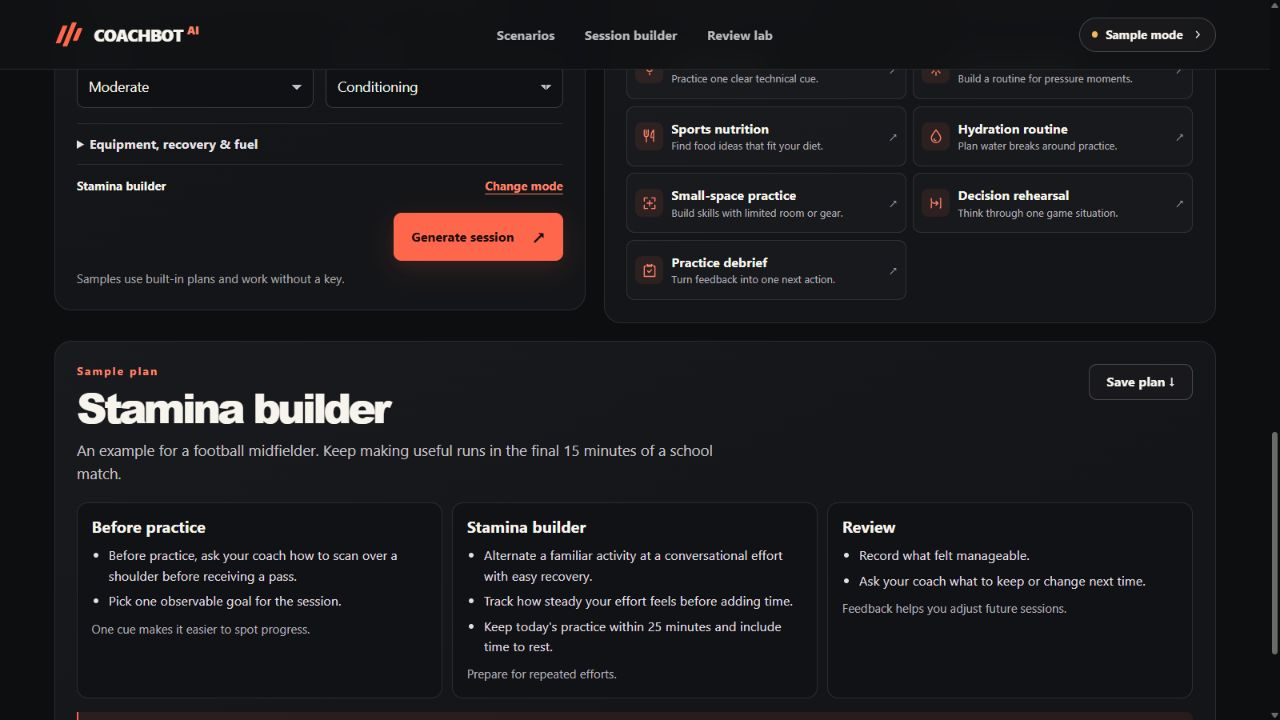
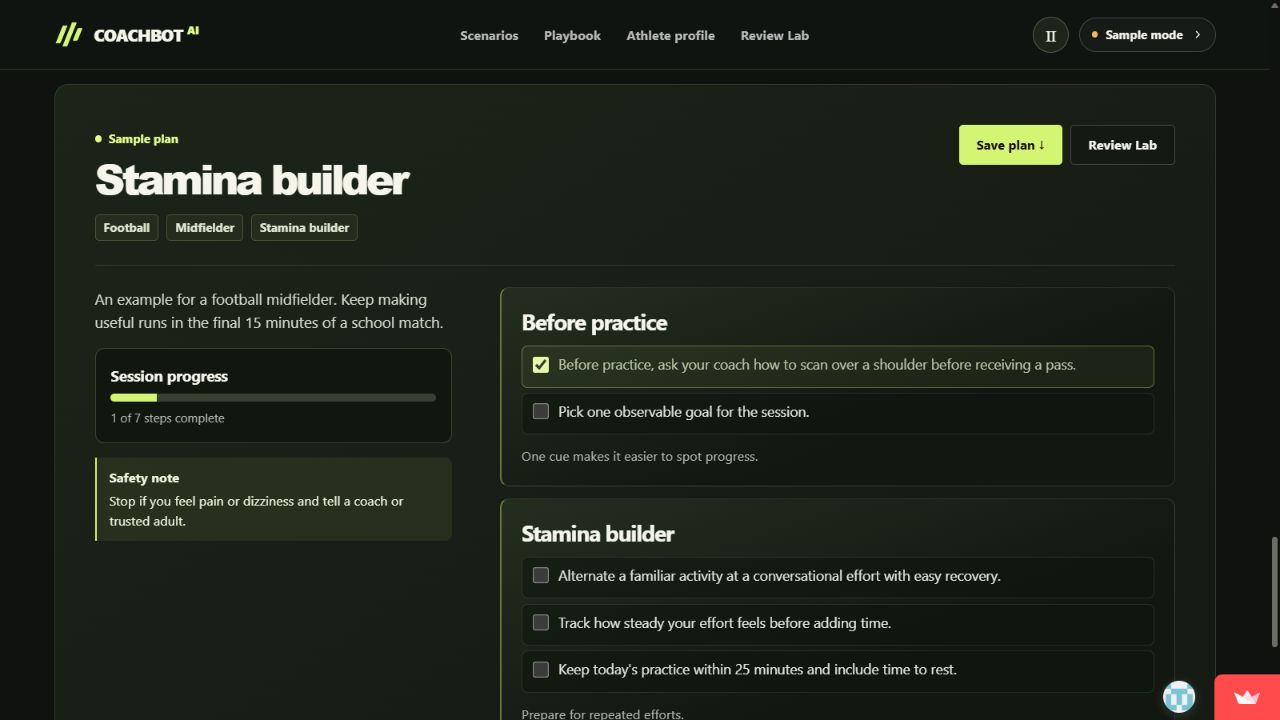
Redesign CoachBot with motion-led sports previews and overlays

diff --git a/web/studio.css b/web/studio.css
@@ -30,15 +30,17 @@ nav a:hover,nav button:hover{color:var(--text)}
 .connection svg{width:13px;height:13px;fill:none;stroke:currentColor;stroke-width:2}
 
 .header-actions{justify-self:end;display:flex;align-items:center;gap:10px}
+.menu-toggle{display:grid;place-items:center;width:38px;height:38px;border:1px solid #d4eed540;border-radius:50%;background:#1e2419;color:var(--text);transition:background .22s}
+.menu-toggle:hover{background:#414d33}
+.menu-toggle svg{width:18px;height:18px;fill:none;stroke:currentColor;stroke-width:1.75;stroke-linecap:round}
 .hero{--reel-progress:0;position:relative;isolation:isolate;overflow:clip;background:radial-gradient(ellipse at 81% 15%,#465730 0%,transparent 61%),#10140e}
 .hero::before{content:"";position:absolute;inset:0;background:radial-gradient(circle,#d4f5742b .7px,transparent 1px) 0 0/17px 17px;mask-image:linear-gradient(100deg,#000,transparent 38%);pointer-events:none}
-.hero-inner{position:relative;display:grid;align-items:center;min-height:clamp(630px,calc(100svh - var(--header-height)),940px);padding-block:88px 110px}
+.hero-inner{position:relative;display:grid;grid-template-columns:minmax(0,1fr) minmax(0,1.22fr);align-items:center;gap:clamp(20px,3.25vw,48px);min-height:clamp(590px,calc(100svh - var(--header-height)),900px);padding-block:54px 88px}
 .hero-copy{position:relative;z-index:2;max-width:750px}
 .hero-copy h1 span{display:block}
-.hero h1{font:950 clamp(62px,9.4vw,150px)/.83 var(--display);letter-spacing:-.093em;color:#f6f6e9;text-transform:uppercase;text-shadow:0 2px 36px #0b100c85;animation:title-in .95s var(--ease) both}
-.hero h1 em{display:inline-block;color:var(--hot);font-style:normal;animation:title-in 1.08s var(--ease) both}
+.hero h1{font:950 clamp(45px,6.1vw,105px)/.88 var(--display);letter-spacing:-.085em;color:#f6f6e9;text-transform:uppercase;text-shadow:0 2px 36px #0b100c85;animation:title-in .95s var(--ease) both}
+.hero h1 em{display:inline-block;color:var(--scene-color);font-style:normal;transition:color .45s var(--ease);animation:title-in 1.08s var(--ease) both}
 @keyframes title-in{from{clip-path:inset(100% -10% 0 -10%);transform:translateY(27px)}to{clip-path:inset(-12% -10% -12% -10%);transform:none}}
-@keyframes enter{from{transform:translateY(16px);opacity:0}to{transform:none;opacity:1}}
 .eyebrow{display:flex;align-items:center;gap:9px;font:700 11px/1.3 'Segoe UI',Arial,sans-serif;letter-spacing:.15em}
 .hero-eyebrow{color:#e0e9cd;margin-bottom:24px}
 .hero-eyebrow span{width:23px;height:1px;background:var(--hot)}
@@ -47,20 +49,25 @@ nav a:hover,nav button:hover{color:var(--text)}
 .hero-scroll{position:absolute;bottom:26px;left:0;color:#c1caaf;font-size:12px;display:inline-flex;align-items:center;gap:19px;z-index:2}
 .hero-scroll span{width:26px;height:26px;display:grid;place-items:center;border:1px solid #d5e8c44d;border-radius:50%;transition:transform .25s var(--ease)}
 .hero-scroll:hover span{transform:translateY(4px)}
-.hero-reel{position:absolute;inset:0;pointer-events:none;perspective:1200px}
-.hero-reel::after{content:"";position:absolute;inset:0;background:linear-gradient(90deg,#10140ee6 3%,#10140e7d 37%,transparent 66%);pointer-events:none}
-.hero-shot{position:absolute;overflow:clip;border:1px solid #d6e9c972;background:#252e21 center/cover;border-radius:9px;box-shadow:0 22px 64px #040a06bb;transform-origin:center;animation:reel-in 1.05s var(--ease) both}
-.hero-shot::after{content:"";position:absolute;inset:0;pointer-events:none;background:linear-gradient(118deg,#111e1347 8%,transparent 59%),linear-gradient(0deg,#11180e55,transparent 31%);box-shadow:inset 0 0 0 5px #ffffff07}
-.hero-shot-track{inset:12% -2% 13% 38%;transform:translate3d(calc(70px * var(--reel-progress)),calc(-45px * var(--reel-progress)),0) rotate(-4deg) scale(calc(1 + .12 * var(--reel-progress)))}
-.hero-shot-court{inset:62% 1% 4% 70%;transform:translate3d(calc(46px * var(--reel-progress)),calc(80px * var(--reel-progress)),0) rotate(9deg);animation-delay:.09s}
-.hero-shot-warmup{inset:6% 11% 65% 69%;transform:translate3d(calc(-15px * var(--reel-progress)),calc(-90px * var(--reel-progress)),0) rotate(8deg);animation-delay:.14s}
-.hero-shot-track .film-media{object-position:48% center;filter:brightness(.72) saturate(.68) contrast(1.12)}
-.hero-shot-court .film-media{object-position:54% center;filter:brightness(.82) saturate(.72) contrast(1.08)}
-.hero-shot-warmup .film-media{object-position:50% center;filter:brightness(.84) saturate(.72) contrast(1.08)}
-@keyframes reel-in{from{opacity:0;translate:34px 34px}to{opacity:1;translate:none}}
+.hero-reel{position:relative;min-width:0;isolation:isolate;animation:reel-in .95s var(--ease) both}
+.hero-reel::before{content:"";position:absolute;z-index:-1;inset:8% -2.5% 11% 10%;border:1px solid #e4f7c938;border-radius:18px;background:#151f1150;transform:translateY(calc(22px * var(--reel-progress))) rotate(5deg)}
+.hero-screen{position:relative;isolation:isolate;overflow:clip;aspect-ratio:1.42;background:#252e21;border:1px solid #e0f1d675;border-radius:15px 15px 4px 4px;box-shadow:0 24px 76px #071006ad}
+.hero-screen::after{content:"";position:absolute;inset:0;pointer-events:none;background:linear-gradient(0deg,#0b160c50,transparent 46%);box-shadow:inset 0 0 0 6px #ffffff08}
+.hero-shot{position:absolute;inset:0;background:#252e21 center/cover;opacity:0;transform:translateY(calc(-36px * var(--reel-progress))) scale(1.085);transition:opacity .6s var(--ease)}
+.hero-shot[data-active=true]{opacity:1}
+.hero-shot .film-media{filter:contrast(1.07) saturate(.88)}
+@keyframes reel-in{from{opacity:.1;clip-path:inset(0 0 10% 8%);translate:23px 20px}to{opacity:1;clip-path:inset(-30% -30% -30% -30%);translate:none}}
+.hero-reel-controls{display:flex;flex-wrap:wrap;justify-content:space-between;align-items:center;gap:3px 12px;margin-top:10px;padding:5px 8px;border:1px solid #d6e9c934;border-radius:7px;background:#111a13d9;backdrop-filter:blur(13px)}
+.hero-films{display:flex;flex-wrap:wrap;min-width:0;gap:3px}
+.hero-films button{min-height:36px;padding:0 10px;border:1px solid transparent;border-radius:5px;background:none;color:#d1dfca;font-size:12px;font-weight:700;transition:background .24s,color .24s}
+.hero-films button:hover{background:#eaf5dc19;color:#fff}
+.hero-films button[aria-pressed=true]{background:var(--scene-color);color:#182116}
+.film-trigger{display:inline-flex;align-items:center;justify-content:center;gap:6px;min-height:36px;padding:6px 10px;border:1px solid #eef8e352;border-radius:5px;background:#101810c9;color:var(--text);font-size:12px;font-weight:760;white-space:nowrap;transition:background .2s,border-color .2s}
+.film-trigger span{color:var(--scene-color);font-size:15px;line-height:1}
+.film-trigger:hover{background:#34412f;border-color:#eef8e392}
 .film-media{position:absolute;inset:0;width:100%;height:100%;object-fit:cover;opacity:0;transition:opacity .48s var(--ease);pointer-events:none}
 [data-playing=true]>.film-media{opacity:1}
-.studio[data-motion=off] .hero h1,.studio[data-motion=off] .hero h1 em,.studio[data-motion=off] .hero-shot{animation:none}
+.studio[data-motion=off] :is(.hero h1,.hero h1 em,.hero-reel){animation:none;transition:none}
 .button{border-radius:8px;min-height:48px;display:inline-flex;align-items:center;justify-content:center;gap:18px;padding:0 17px;border:1px solid transparent;font-size:13px;font-weight:750;line-height:1.2;transition:background .2s,border-color .2s,transform .24s var(--ease),box-shadow .2s;white-space:nowrap}
 .button:hover{transform:translateY(-2px)}
 .button:active{transform:translateY(0)}
@@ -93,8 +100,8 @@ nav a:hover,nav button:hover{color:var(--text)}
 .case-preview{grid-area:preview;position:relative;display:flex;align-items:end;min-height:clamp(354px,37vw,490px);isolation:isolate;background:#1b2318;overflow:clip;border-radius:11px;box-shadow:0 16px 40px #23371b33;color:#f6f8ef;color-scheme:dark}
 .case-film,.case-picture{position:absolute;inset:0;pointer-events:none}
 .case-film{z-index:-1}
-.case-picture{opacity:0;background:#242b22 center/cover;transition:opacity .52s var(--ease)}
-.case-picture[data-active=true]{opacity:1}
+.case-picture{opacity:0;background:#242b22 center/cover;transform:scale(1.05);transition:opacity .6s var(--ease),transform .8s var(--ease)}
+.case-picture[data-active=true]{opacity:1;transform:none}
 .case-film::after{content:"";position:absolute;inset:0;background:linear-gradient(0deg,#090f0af5 0%,#0d170dd4 29%,#0e110a18 73%);pointer-events:none}
 .case-detail{display:flex;flex-wrap:wrap;align-items:end;justify-content:space-between;gap:12px;width:100%;padding:clamp(16px,2.75vw,35px)}
 .case-text{min-width:0}
@@ -103,6 +110,8 @@ nav a:hover,nav button:hover{color:var(--text)}
 #case-goal{max-width:44ch;margin-top:8px;color:#e1e8d9;font-size:14px;line-height:1.45}
 .case-detail .button.primary{color:#151812;background:var(--scene-color);border-color:var(--scene-color)}
 .case-detail .button.primary:hover{background:#f4fae8;border-color:#f4fae8}
+.case-actions,.stage-tools{display:flex;align-items:center;flex-wrap:wrap;gap:7px}
+.case-actions .film-trigger{min-height:44px}
 .scenario-grid{grid-area:choices;display:grid;gap:8px}
 .scenario{display:flex;align-items:center;justify-content:space-between;gap:10px;width:100%;min-height:73px;text-align:left;padding:13px clamp(10px,1.5vw,18px);border:1px solid #31422237;border-radius:8px;background:#f4f5ec7a;color:#192116;transition:background .26s,border-color .26s,box-shadow .26s}
 .scenario:hover{border-color:#536840b0;background:#f4f7ea}
@@ -203,13 +212,26 @@ textarea{min-height:58px;resize:vertical}
 .footer>span:first-child{color:var(--text);font-weight:800;white-space:nowrap}
 .footer a{white-space:nowrap}
 .footer a:hover{color:var(--hot-bright)}
-.modal{width:min(100% - 28px,525px);max-height:calc(100dvh - 35px);overflow:auto;border:1px solid #47484d;border-radius:17px;background:#18191d;color:var(--text);padding:23px;box-shadow:0 22px 115px #000c}
-.modal::backdrop{background:#050507b0;backdrop-filter:blur(6px)}
-.modal[open]{animation:enter .25s var(--ease) both}
+.modal{width:min(100% - 28px,525px);max-height:calc(100dvh - 35px);overflow:auto;overscroll-behavior:contain;border:1px solid #c3d0ad49;border-radius:16px;background:#171e16;color:var(--text);padding:23px;box-shadow:0 22px 115px #000c;opacity:0;transform:translateY(18px) scale(.985);transition:opacity .28s var(--ease),transform .38s var(--ease),display .38s allow-discrete,overlay .38s allow-discrete}
+.modal::backdrop{background:#060a07b8;backdrop-filter:blur(9px);opacity:0;transition:opacity .35s,display .38s allow-discrete,overlay .38s allow-discrete}
+.modal[open]{opacity:1;transform:none}
+.modal[open]::backdrop{opacity:1}
+@starting-style{
+  .modal[open]{opacity:0;transform:translateY(24px) scale(.975)}
+  .modal[open]::backdrop{opacity:0}
+}
 .modal-head{display:flex;justify-content:space-between;align-items:start;gap:12px;margin-bottom:14px}
 .modal>p{color:#c9c6ce;font-size:14px;margin-bottom:16px}
 .close{border-radius:50%;width:34px;height:34px;flex:none;background:#ffffff09;border:1px solid #ffffff24;font-size:21px;line-height:1}
 .close:hover{background:#ffffff19}
+.menu-panel{width:min(100% - 28px,454px);margin:clamp(14px,5vh,55px) clamp(14px,5vw,70px) auto auto;background:radial-gradient(ellipse at top right,#c1e87526,transparent 73%),#141b13;padding:clamp(17px,3.1vw,33px)}
+.menu-panel nav{display:grid;gap:2px;white-space:normal}
+.menu-panel nav :is(a,button){display:flex;justify-content:space-between;align-items:center;gap:12px;text-align:left;border:0;border-bottom:1px solid #d7eac336;background:none;color:var(--text);min-height:56px;padding:7px 0;font-weight:760;font-size:clamp(16px,2.2vw,25px);letter-spacing:-.038em}
+.menu-panel nav :is(a,button):hover{color:var(--hot-bright)}
+.menu-panel nav span{color:var(--hot);font-size:17px}
+.film-dialog{width:min(100% - 28px,960px);background:#111710;padding:clamp(13px,2.7vw,28px)}
+.film-dialog video{display:block;width:100%;max-height:calc(100dvh - 185px);border-radius:8px;background:#0b110b;object-fit:contain}
+.film-dialog>p{margin:12px 0 0}
 #key-form label+label{margin-top:11px}
 #key-form label span{color:#c5bdc9;font-weight:550;font-size:11px;margin-left:5px}
 .modal-actions{display:flex;justify-content:space-between;gap:8px;margin-top:14px}
@@ -240,8 +262,8 @@ textarea{min-height:58px;resize:vertical}
 .mode-stage{position:relative;isolation:isolate;display:flex;flex-direction:column;min-height:438px;overflow:hidden;overflow:clip;padding:clamp(17px,2.25vw,34px);background:#1a2518;border:1px solid #e1eed14c;border-radius:11px}
 .mode-visual,.mode-picture,.mode-scrim{position:absolute;inset:0;pointer-events:none}
 .mode-visual{z-index:-2}
-.mode-picture{opacity:0;background:#21291e center/cover;transition:opacity .56s var(--ease)}
-.mode-picture[data-active=true]{opacity:1}
+.mode-picture{opacity:0;background:#21291e center/cover;transform:scale(1.05);transition:opacity .6s var(--ease),transform .8s var(--ease)}
+.mode-picture[data-active=true]{opacity:1;transform:none}
 .mode-scrim{z-index:-1;background:linear-gradient(0deg,#0b110af2 2%,#121b11ab 30%,#121b1110 82%),linear-gradient(90deg,#0d180d91,transparent 80%)}
 .mode-stage .film-media{filter:brightness(.8) saturate(.8)}
 .stage-toolbar,.stage-footer{display:flex;justify-content:space-between;align-items:center;gap:10px}
@@ -268,9 +290,10 @@ textarea{min-height:58px;resize:vertical}
 .mode strong{font-size:13px;font-weight:750;line-height:1.2}
 .mode-arrow{color:#b0bba8;font-size:13px}
 .mode[aria-pressed=true] :is(.mode-arrow,.mode-icon){color:var(--scene-color)}
-.studio[data-motion=on] :is(.case-preview,.mode-stage).in-view{animation:chapter-in .7s var(--ease) backwards}
-@keyframes chapter-in{from{transform:translateY(15px);opacity:.65;clip-path:inset(0 0 7% 0)}to{transform:none;opacity:1;clip-path:inset(0)}}
-.studio[data-motion=off] :is(.case-picture,.mode-picture,.film-media){transition:none}
+.studio[data-motion=on] :is(.case-shell .section-heading,.case-preview,.scenario-grid,.playbook-header,.mode-stage,.mode-index,.profile-intro,.profile-group,.output).in-view{animation:chapter-in .72s var(--ease) backwards}
+.studio[data-motion=on] :is(.scenario-grid,.mode-index,.profile-group).in-view{animation-delay:.09s}
+@keyframes chapter-in{from{translate:0 21px;opacity:.28;clip-path:inset(0 0 11% 0)}to{translate:none;opacity:1;clip-path:inset(0)}}
+.studio[data-motion=off] :is(.hero-shot,.case-picture,.mode-picture,.film-media,.modal),.studio[data-motion=off] .modal::backdrop{transition:none}
 .studio[data-motion=off] .output-source::before{animation:none}
 .profile :is(input:not([type=checkbox]),select,textarea){background-color:#121710;border-color:#4a5442;border-radius:5px}
 .profile :is(input:not([type=checkbox]),select,textarea):hover{border-color:#6e7a61}
@@ -284,19 +307,14 @@ textarea{min-height:58px;resize:vertical}
 @media(max-width:1100px){
   .shell{width:calc(100% - 64px)}
   nav{gap:16px}
-  .hero-shot-track{inset:15% -2% 18% 37%}
-  .hero-shot-court{inset:61% 1% 10% 71%}
-  .hero-shot-warmup{inset:8% 13% 66% 66%}
 }
 @media(max-width:760px){
   .shell{width:calc(100% - 40px)}
-  .hero-inner{min-height:680px;align-items:end;padding-block:260px 83px}
-  .hero h1{font-size:clamp(57px,12vw,91px)}
-  .hero-shot-track{inset:5% -2% 44% 16%;transform:translateY(calc(-24px * var(--reel-progress))) rotate(-5deg)}
-  .hero-shot-court{inset:32% -1% 45% 56%;transform:translateY(calc(20px * var(--reel-progress))) rotate(8deg)}
-  .hero-shot-warmup{inset:9% 63% 69% -1%;transform:rotate(9deg)}
+  .hero-inner{min-height:calc(100svh - var(--header-height));grid-template-columns:minmax(0,1fr);align-content:center;gap:25px;padding-block:30px 77px}
+  .hero h1{font-size:clamp(43px,11.4vw,82px)}
   .hero-copy{max-width:100%}
-  .hero-reel::after{background:linear-gradient(0deg,#10140e 7%,#10140ea6 37%,transparent 73%)}
+  .hero-reel{grid-row:1}
+  .hero-screen{aspect-ratio:1.7}
   .hero p{margin-top:16px}
   .hero-eyebrow{font-size:10px;margin-bottom:14px}
   .case-layout,.playbook-layout,.workbench{grid-template-columns:minmax(0,1fr)}
@@ -312,23 +330,17 @@ textarea{min-height:58px;resize:vertical}
   .session-workspace{grid-template-columns:minmax(0,1fr)}
   .session-overview{position:static}
   .section-heading{flex-direction:column;align-items:start;gap:10px}
-  .studio{--header-height:98px}
-  .topbar-inner{grid-template-columns:1fr auto;grid-template-rows:58px 39px;gap:0 6px}
-  .topbar nav{grid-column:1/-1;grid-row:2;justify-content:space-between;gap:8px;min-width:0;border-top:1px solid var(--line);font-size:12px}
-  .topbar nav :is(a,button){display:flex;align-items:center;min-height:37px}
-  .header-actions{grid-column:2;grid-row:1}
+  .studio{--header-height:62px}
+  .topbar-inner{grid-template-columns:minmax(0,1fr) auto;gap:6px}
+  .topnav{display:none}
 }
 @media(max-width:575px){
   .shell{width:calc(100% - 32px)}
-  .topbar nav{font-size:11px}
   .brand{font-size:15px}
   .connection{font-size:11px}
   .header-actions{gap:6px}
-  .hero-inner{min-height:calc(100svh - var(--header-height));padding-top:clamp(225px,36svh,290px)}
-  .hero h1{font-size:clamp(43px,12.3vw,71px)}
-  .hero-shot-track{inset:7% -1% 50% 9%}
-  .hero-shot-court{inset:29% 0 54% 59%}
-  .hero-shot-warmup{inset:7% 69% 75% -1%}
+  .hero-reel-controls{gap:5px;padding:5px}
+  .hero-films button,.hero-reel .film-trigger{min-height:38px;padding-inline:7px;font-size:11px}
   .hero-actions{gap:7px;margin-top:18px}
   .button{min-height:44px;gap:8px;padding-inline:10px;font-size:12px}
   .sport-inner{gap:8px;min-height:54px}
@@ -353,7 +365,8 @@ textarea{min-height:58px;resize:vertical}
 }
 @media(max-width:360px){
   .fields{grid-template-columns:minmax(0,1fr)}
-  .connection{gap:5px;padding-inline:8px}
+  .connection{display:grid;place-items:center;width:34px;height:34px;padding:0}
+  #connection-label{position:absolute;width:1px;height:1px;clip-path:inset(50%);overflow:hidden;white-space:nowrap}
   .connection svg{display:none}
 }
 @media(prefers-reduced-motion:reduce){

diff --git a/web/studio.html b/web/studio.html
@@ -6,10 +6,11 @@
         <span class="brand-mark" aria-hidden="true"><i></i><i></i><i></i></span>
         <span>COACHBOT<span class="brand-ai">AI</span></span>
       </a>
-      <nav aria-label="Main navigation"><a href="#scenarios">Scenarios</a><a href="#playbook">Playbook</a><a href="#athlete-profile">Athlete profile</a><button type="button" data-open="review">Review Lab</button></nav>
+      <nav class="topnav" aria-label="Main navigation"><a href="#scenarios">Scenarios</a><a href="#playbook">Playbook</a><a href="#athlete-profile">Athlete profile</a></nav>
       <div class="header-actions">
         <button class="motion-toggle" type="button" aria-label="Pause motion" title="Pause motion"><span aria-hidden="true">Ⅱ</span></button>
         <button class="connection" data-open="settings" type="button"><i aria-hidden="true"></i><span id="connection-label">Sample mode</span><svg viewBox="0 0 24 24" aria-hidden="true"><path d="m9 18 6-6-6-6"/></svg></button>
+        <button class="menu-toggle" data-open="studio-menu" type="button" aria-label="Open CoachBot menu" aria-haspopup="dialog"><svg viewBox="0 0 24 24" aria-hidden="true"><path d="M3 8h18M3 16h13"/></svg></button>
       </div>
     </div>
   </header>
@@ -17,11 +18,6 @@
   <main>
     <section class="hero" aria-labelledby="hero-title">
       <div class="shell hero-inner">
-        <div class="hero-reel" aria-hidden="true">
-          <div class="hero-shot hero-shot-track" data-film="training"></div>
-          <div class="hero-shot hero-shot-court" data-film="game-iq"></div>
-          <div class="hero-shot hero-shot-warmup" data-film="recovery"></div>
-        </div>
         <div class="hero-copy">
           <div class="eyebrow hero-eyebrow"><span aria-hidden="true"></span> AI COACHING FOR YOUNG ATHLETES</div>
           <h1 id="hero-title">TRAIN WITH<br><em>PURPOSE.</em></h1>
@@ -29,6 +25,13 @@
           <div class="hero-actions">
             <a href="#builder" class="button primary">Build my session <span aria-hidden="true">↗</span></a>
             <button type="button" class="button ghost" id="load-example"><span class="play" aria-hidden="true">▷</span> Try an example</button>
+          </div>
+        </div>
+        <div class="hero-reel" aria-label="Coaching footage">
+          <div class="hero-screen" id="hero-films" aria-hidden="true"></div>
+          <div class="hero-reel-controls">
+            <div class="hero-films" id="hero-film-picker" role="group" aria-label="Select a featured clip"></div>
+            <button class="film-trigger" id="watch-hero" type="button" aria-haspopup="dialog"><span aria-hidden="true">▷</span> Watch clip</button>
           </div>
         </div>
         <a class="hero-scroll" href="#scenarios">Explore scenarios <span aria-hidden="true">↓</span></a>
@@ -55,7 +58,10 @@
                 <h3 id="case-title"></h3>
                 <p id="case-goal"></p>
               </div>
-              <button type="button" class="button primary" id="use-scenario">Use this scenario <span aria-hidden="true">↗</span></button>
+              <div class="case-actions">
+                <button type="button" class="button primary" id="use-scenario">Use this scenario <span aria-hidden="true">↗</span></button>
+                <button type="button" class="film-trigger" id="watch-scenario" aria-haspopup="dialog"><span aria-hidden="true">▷</span> Watch clip</button>
+              </div>
             </div>
           </article>
         </div>
@@ -74,7 +80,7 @@
             <div class="mode-scrim" aria-hidden="true"></div>
             <div class="stage-toolbar">
               <p class="stage-group" id="stage-group"></p>
-              <p class="stage-position" id="stage-position"></p>
+              <div class="stage-tools"><p class="stage-position" id="stage-position"></p><button type="button" class="film-trigger" id="watch-mode" aria-haspopup="dialog"><span aria-hidden="true">▷</span> Watch clip</button></div>
             </div>
             <div class="stage-copy" aria-live="polite">
               <h3 id="stage-title"></h3>
@@ -152,6 +158,22 @@
   </main>
 
   <footer class="shell footer"><span>COACHBOT AI</span><span>Youth coaching prototype · use fictional profiles</span><a href="#top">Back to top ↑</a></footer>
+
+  <dialog class="modal menu-panel" id="studio-menu" aria-labelledby="menu-title">
+    <div class="modal-head"><h2 id="menu-title">Explore CoachBot</h2><button class="close" type="button" aria-label="Close CoachBot menu">×</button></div>
+    <nav aria-label="CoachBot sections">
+      <a href="#scenarios">Scenarios <span aria-hidden="true">↗</span></a>
+      <a href="#playbook">Coaching Playbook <span aria-hidden="true">↗</span></a>
+      <a href="#athlete-profile">Athlete profile <span aria-hidden="true">↗</span></a>
+      <button type="button" data-open="review">Review Lab <span aria-hidden="true">↗</span></button>
+    </nav>
+  </dialog>
+
+  <dialog class="modal film-dialog" id="film-dialog" aria-labelledby="film-title">
+    <div class="modal-head"><h2 id="film-title"></h2><button class="close" type="button" aria-label="Close video preview">×</button></div>
+    <video controls muted playsinline preload="metadata" aria-labelledby="film-title"></video>
+    <p id="film-description"></p>
+  </dialog>
 
   <dialog class="modal" id="settings" aria-labelledby="settings-title">
     <div class="modal-head"><div><p class="eyebrow section-kicker">GEMINI</p><h2 id="settings-title">Model settings</h2></div><button class="close" type="button" aria-label="Close settings">×</button></div>

diff --git a/README.md b/README.md
@@ -32,13 +32,15 @@ Open the local URL shown in the terminal. The sample workflow runs without crede
 
 | Screen | What to try |
 | --- | --- |
-| [Landing screen](docs/screenshots/home.jpg) | Pause or play the live animated background, then open an example. |
+| [Landing screen](docs/screenshots/home.jpg) | Switch between four sports clips, open a clip in the player, or start with an example. |
 | [Scenario gallery](docs/screenshots/scenarios.jpg) | Preview a midfielder, fast bowler, badminton doubles player, or point guard. Choose **Use this scenario** to load the selected profile. |
 | [Coaching Playbook](docs/screenshots/playbook.jpg) | Browse 13 modes across four animated scenes, then continue to the athlete profile. |
 | [Sample plan](docs/screenshots/plan.jpg) | Generate a plan, check off steps as you go, then download it or open Review Lab. |
 | [Readiness check](docs/screenshots/readiness.jpg) | Run the fast-bowler case and see the local check-in checklist. |
 | [Review Lab](docs/screenshots/review.jpg) | Select two runs, compare the outputs and export run evidence. |
 | [390 px mobile view](docs/screenshots/mobile.jpg) | Use the same profile form and playbook on a narrow screen. |
+
+![A CoachBot session with the progress bar and a completed step](docs/screenshots/plan.jpg)
 
 ![CoachBot Coaching Playbook showing the animated training preview and mode index](docs/screenshots/playbook.jpg)
 
@@ -120,7 +122,7 @@ Browser checks on the public deployment cover the scenario previews, sample gene
 - Youth conditioning benefits from matching training intensity and volume to the athlete and allowing regular recovery. That informed the profile's intensity, equipment, goal and recovery inputs. [IOC consensus on youth athletic development](https://doi.org/10.1136/bjsports-2015-094962)
 - The youth resistance training consensus informed the emphasis on supervision, technique and gradual progression. [International consensus on youth resistance training](https://doi.org/10.1136/bjsports-2013-092952)
 - The return-to-training path sends possible concussion and current symptoms to a check-in with an adult or healthcare professional. [CDC HEADS UP](https://www.cdc.gov/heads-up/guidelines/returning-to-sports.html)
-- The visual direction draws on oversized typography and layered motion from [Made to Disrupt](https://madetodisrupt.com/). CoachBot uses four bundled sports clips and matching posters for the landing, scenario, and Playbook previews. Motion can be paused and respects the device’s reduced-motion preference.
+- The visual direction draws on oversized typography, scroll reveals, video layering, and overlay interactions from [Made to Disrupt](https://madetodisrupt.com/). CoachBot has its own sports footage, category switcher, and clip player. Preview videos pause outside the viewport and behind open dialogs. The motion control and device reduced-motion setting also pause automatic motion.
 
 ## Streamlit Community Cloud
 
